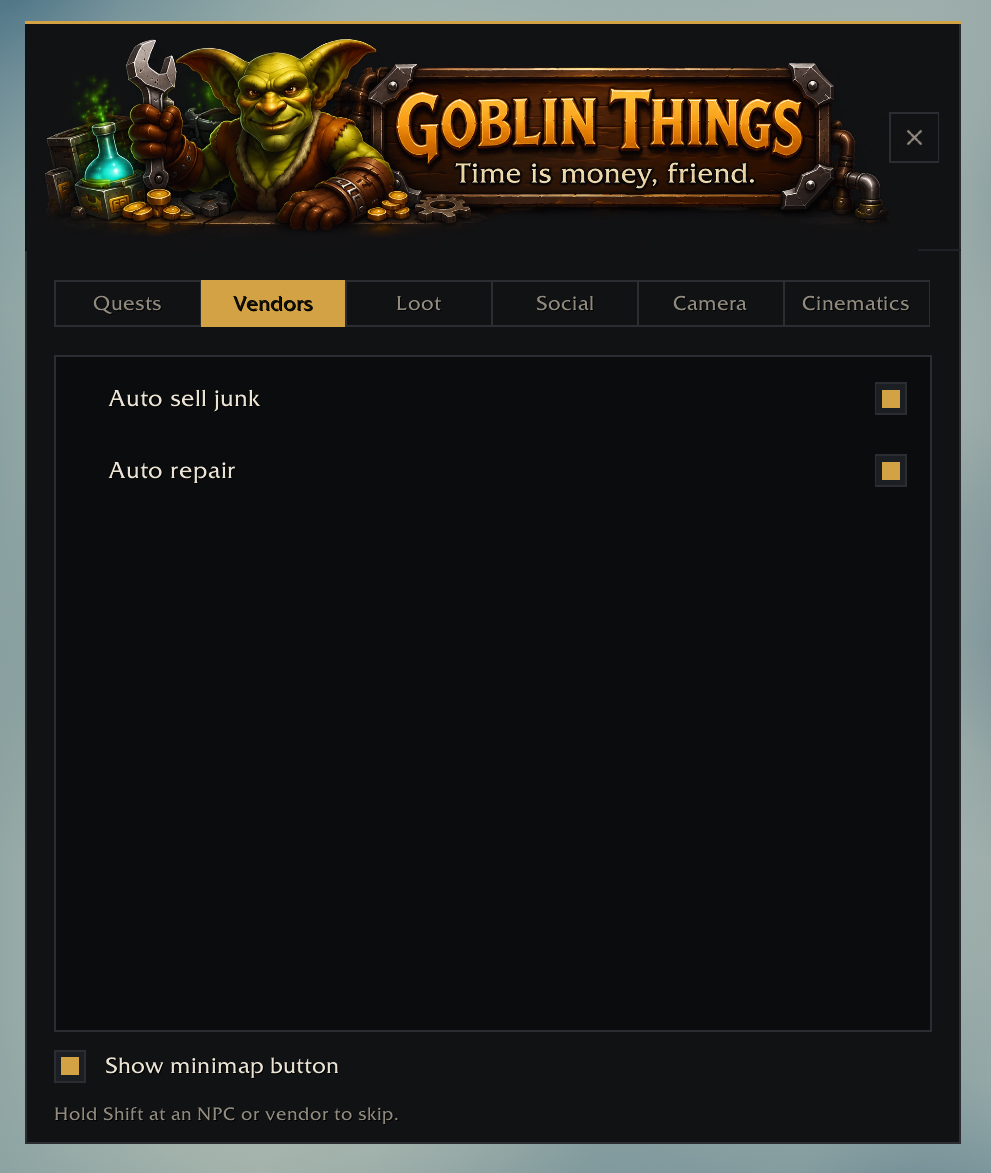
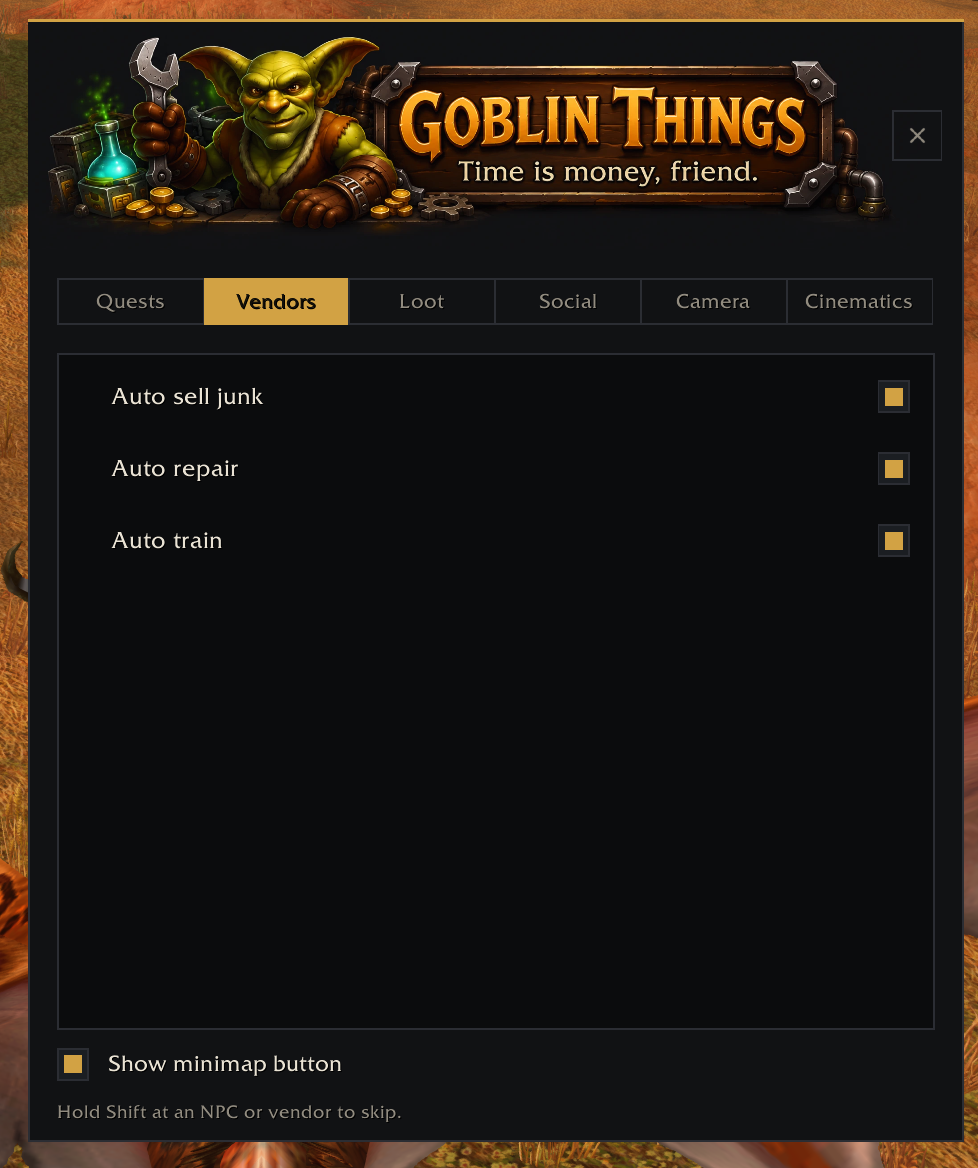
Docs: Auto train in the README, the Vendors screenshot, and the untested trainer checks marked skipped

diff --git a/docs/manual-test-checklist.md b/docs/manual-test-checklist.md
@@ -142,11 +142,13 @@ Mark each with the build and date when walked; `[-]` is skipped by choice, with 
       Moonfire, Rejuvenation, Soothe Animal, Wrath).
 - [x] Closing the trainer says "Trained N for ..." with the gold spent, counting only what the addon bought,
       with the trainer's Used filter off (Snang: "Trained 1 for 25c." after Tailoring by hand, 2026-10-16).
-- [ ] Short of gold for the whole list: trains in list order until it cannot afford the next, then stops,
+- [-] Short of gold for the whole list: trains in list order until it cannot afford the next, then stops,
       no error spam in chat; the line counts only what was learned.
+      Skipped 2026-10-16: no chance to test before 2026.10.16.2; logic covered by test_trainer.lua.
 - [x] Profession trainer for a craft you have: recipes are trained (Tarn, Light Leather Pants at 71 skill,
       56s 41c to 52s 81c, 2026-10-16).
-- [ ] The same for the next rank (Journeyman etc.) when it comes due.
+- [-] The same for the next rank (Journeyman etc.) when it comes due.
+      Skipped 2026-10-16: no chance to test before 2026.10.16.2; logic covered by test_trainer.lua.
 - [x] Taking up a profession by hand at its trainer: the recipes that turn green are then trained in the same
       visit (Snang, Apprentice Tailoring by hand, then White Linen Shirt, 2026-10-16).
 - [x] Profession trainer for a craft you do not have: nothing trained, no profession slot taken
@@ -154,12 +156,16 @@ Mark each with the build and date when walked; `[-]` is skipped by choice, with 
 - [x] The same with a free profession slot: still nothing trained (an alt with only Enchanting at Snang,
       Apprentice Tailoring 10c left green and untrained, 2026-10-16).
 - [x] Shift held while talking to the trainer: nothing trained, no line (Tarn, Leatherworking, 2026-10-16).
-- [ ] Switch off: the trainer window is left as it is.
-- [ ] Hunter pet trainer (if a hunter is handy): nothing trained.
+- [-] Switch off: the trainer window is left as it is.
+      Skipped 2026-10-16: no chance to test before 2026.10.16.2; logic covered by test_trainer.lua.
+- [-] Hunter pet trainer (if a hunter is handy): nothing trained.
+      Skipped 2026-10-16: no chance to test before 2026.10.16.2; logic covered by test_trainer.lua.
 - [x] A trainer whose chat page holds only "Train me." (Tarn): the trainer list opens straight away and
       trains (2026-10-16).
-- [ ] The same with Shift held: the chat page stays and nothing is trained.
-- [ ] A trainer with a second option ("unlearn talents", a quest): the chat page stays as it is.
+- [-] The same with Shift held: the chat page stays and nothing is trained.
+      Skipped 2026-10-16: no chance to test before 2026.10.16.2; logic covered by test_trainer.lua.
+- [-] A trainer with a second option ("unlearn talents", a quest): the chat page stays as it is.
+      Skipped 2026-10-16: no chance to test before 2026.10.16.2; logic covered by test_trainer.lua.
 
 ## Loot
 

diff --git a/README.md b/README.md
@@ -26,13 +26,13 @@ and forget them.
 | Camera | Camera distance | Zooms the camera out to 4.0, past Blizzard's 2.0 | Untouched |
 | Cinematics | Skip cinematics | Off, repeats only, or all | Repeats only |
 
-Hold **Shift** while talking to an NPC or opening a vendor to skip everything that visit. Hold it on a
+Hold **Shift** while talking to an NPC, a vendor or a trainer to skip everything that visit. Hold it on a
 corpse to get the normal loot window. Everything else is one click in the window.
 
 ![The Goblin Things window on its Quests tab: the auto-quest checks, Only this zone, the Hide quests above me slider at +3, and the three tracker sort tiers](https://raw.githubusercontent.com/CoffeeAndLoot/goblinthings/master/images/quests.png)
 
 <p>
-<img src="https://raw.githubusercontent.com/CoffeeAndLoot/goblinthings/master/images/vendors.png" width="49%" alt="The Vendors tab: Auto sell junk and Auto repair">
+<img src="https://raw.githubusercontent.com/CoffeeAndLoot/goblinthings/master/images/vendors.png" width="49%" alt="The Vendors tab: Auto sell junk, Auto repair and Auto train">
 <img src="https://raw.githubusercontent.com/CoffeeAndLoot/goblinthings/master/images/social.png" width="49%" alt="The Social tab: decline duels and guild invites, accept invites from guild or friends, accept summons, guild login alerts">
 </p>
 
